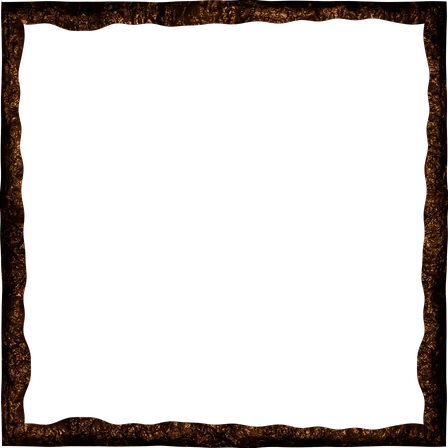
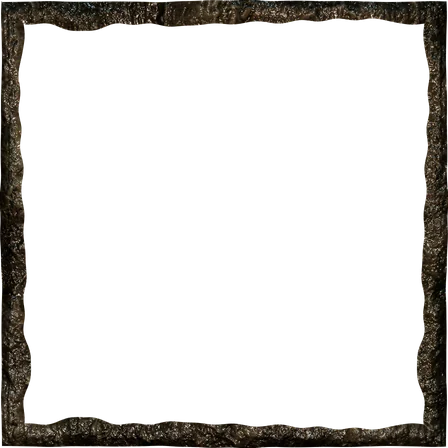
Cave frame: heavy corners in the side gutters, a short fringe, backdrop colours
The long stalactites and stalagmites now grow in the corners and run along
the sides over the border and padding, clear of the content; between them a
short tiled fringe ends before the content starts. Fixed-size pieces, so
nothing scales with the sidebar's width. The rock is sepia-grey to match the
cave backdrop, with cool wet highlights from above and soft firelight.

Changed region(s): [[0.0, 0.0, 1.0, 1.0]]

diff --git a/scripts/edge-studio/themes/werewolf-light.js b/scripts/edge-studio/themes/werewolf-light.js
@@ -1,20 +1,33 @@
 /*
   Werewolf, The cave: a wet rock rim, stalactites hanging from the top edge and
-  stalagmites rising from the bottom, at random lengths, reaching for one
-  another. Lit by firelight from inside the cave.
-  Material: ambientCG Rock020 (CC0), its vertical streaks read as flowstone.
+  stalagmites rising from the bottom, reaching for one another. The long, heavy
+  ones grow in the corners, down and up the sides (over the border and the
+  sidebar's padding, clear of the content); between them only a short fringe,
+  which ends before the content starts.
+  Colours follow the cave's backdrop: sepia-grey stone under a little
+  firelight, with cool, wet highlights from the waterfall above.
+  Material: ambientCG Rock020 (CC0); its vertical streaks read as flowstone.
 */
 import * as THREE from 'three';
 import { pbr, random, rim, lights, spike, noise3, RIM_WIDTH } from '../studio.js';
 
 const ROCK = 'Rock020';
-const rock = () => pbr(ROCK, { tint: '#a39486', roughness: 0.65 });
-const LIT = { colour: '#ffae6e', intensity: 520, fill: ['#3a4756', '#1a0f08'], fillIntensity: 1.3, front: 1.1 };
+const rock = () => pbr(ROCK, { tint: '#b0a698', roughness: 0.42, normalScale: 1.6 });
+const LIT = {
+  colour: '#f0d8c0',
+  intensity: 620,
+  fill: ['#3d4a55', '#16100b'],
+  fillIntensity: 2,
+  front: 1.9,
+  top: { colour: '#a9cfdc', intensity: 1.8 },
+};
 
-// The ornament strips: wide enough for the widest sidebar, scaled to fit.
-const WIDTH = 400;
+// Where the content starts, from the frame's outer edge: the border plus the sidebar's padding.
+const GUTTER = 32;
+// The middle fringe hangs from the rim's middle and ends just short of the content.
+const FRINGE = GUTTER - RIM_WIDTH * 0.5 - 3;
 
-// A lumpy mound of rock where formations meet the rim, so they grow out of it.
+// A lumpy mound of rock, so formations grow out of the rim.
 function mound(material, x, y, w, h, seed, down) {
   const n = noise3(seed);
   const g = new THREE.SphereGeometry(1, 32, 16);
@@ -30,56 +43,78 @@ function mound(material, x, y, w, h, seed, down) {
   return m;
 }
 
-// Formations along an edge. `down` hangs them from the top; otherwise they rise from the bottom.
-async function formations(scene, { height, seed, down, count, long, short }) {
-  const material = await rock();
-  const rnd = random(seed);
-  // The rim's middle: formations start inside it.
-  const edge = down ? height - RIM_WIDTH * 0.5 : RIM_WIDTH * 0.5;
-  // A ridge of mounds along the whole edge.
-  for (let x = -6; x < WIDTH + 12; x += 9 + rnd() * 10) scene.add(mound(material, x, edge, 9 + rnd() * 9, 3 + rnd() * 3, seed * 7 + x, down));
-
-  // Clusters: a long one with shorter ones around it.
-  const xs = Array.from({ length: count }, () => 6 + rnd() * (WIDTH - 12)).sort((a, b) => a - b);
-  xs.forEach((x, i) => {
-    const big = rnd() < long.chance;
-    const length = big ? long.min + rnd() * (long.max - long.min) : short.min + rnd() * (short.max - short.min);
-    const radius = big ? 8.5 + rnd() * 4.5 : 4 + rnd() * 3.5;
-    const geometry = spike({ length, radius, seed: seed * 100 + i, power: down ? 1.35 : 0.95, bend: (rnd() - 0.5) * 0.5, lump: 0.22 });
-    const mesh = new THREE.Mesh(geometry, material([radius * 2 * Math.PI, length]));
-    mesh.position.set(x, edge, -2);
-    if (down) mesh.rotation.z = Math.PI;
-    mesh.rotation.y = rnd() * Math.PI * 2;
-    scene.add(mesh);
-    if (big) scene.add(mound(material, x, edge, radius * 1.6, 4, seed * 31 + i, down));
-  });
+function formation(material, { x, edge, length, radius, seed, down, rnd }) {
+  const geometry = spike({ length, radius, seed, power: down ? 1.3 : 0.9, bend: (rnd() - 0.5) * 0.35, lump: 0.2 });
+  const mesh = new THREE.Mesh(geometry, material([radius * 2 * Math.PI, length]));
+  mesh.position.set(x, edge, -2);
+  if (down) mesh.rotation.z = Math.PI;
+  mesh.rotation.y = rnd() * Math.PI * 2;
+  return mesh;
 }
+
+/*
+  A corner: a heavy mass of rock and the long formations, running along the
+  side. `right` mirrors it. Light comes from the panel's middle (inwards).
+*/
+function corner({ down, right, width, height, seed, long }) {
+  return async (scene) => {
+    const material = await rock();
+    const rnd = random(seed);
+    const at = (x) => (right ? width - x : x);
+    const edge = down ? height - RIM_WIDTH * 0.5 : RIM_WIDTH * 0.5;
+    // The mass in the corner, tapering inwards into the fringe's ridge.
+    for (let x = 0; x < width; x += 6 + rnd() * 6) {
+      const heavy = Math.max(0, 1 - x / width);
+      scene.add(mound(material, at(x), edge, 8 + heavy * 10 + rnd() * 4, 3 + heavy * 6 + rnd() * 2, seed * 13 + x, down));
+    }
+    // The long ones, in the gutter beside the content.
+    long.forEach(([x, length, radius], i) => scene.add(formation(material, { x: at(x), edge, length, radius, seed: seed * 100 + i, down, rnd })));
+    // Short ones between, no longer than the fringe.
+    for (let x = GUTTER; x < width - 4; x += 5 + rnd() * 7)
+      scene.add(formation(material, { x: at(x), edge, length: 4 + rnd() * (FRINGE - 4), radius: 3.2 + rnd() * 3, seed: seed * 300 + x, down, rnd }));
+    const inwards = right ? -150 : width + 150;
+    lights(scene, { ...LIT, centre: [inwards, down ? height - 420 : 420, 160], intensity: LIT.intensity * 5 });
+  };
+}
+
+/*
+  The fringe along the middle: short formations on a ridge of rock, tiling
+  seamlessly (anything near one end is repeated past the other).
+*/
+function fringe({ down, width, height, seed }) {
+  return async (scene) => {
+    const material = await rock();
+    const rnd = random(seed);
+    const edge = down ? height - RIM_WIDTH * 0.5 : RIM_WIDTH * 0.5;
+    const thrice = (x, make) => [x - width, x, x + width].forEach((at) => scene.add(make(at)));
+    for (let x = 0; x < width; x += 9 + rnd() * 8) {
+      const w = 8 + rnd() * 8, h = 3 + rnd() * 3, s = seed * 7 + x;
+      thrice(x, (at) => mound(material, at, edge, w, h, s, down));
+    }
+    for (let x = 3; x < width; x += 6 + rnd() * 12) {
+      const length = 4 + rnd() * (FRINGE - 4), radius = 3.4 + rnd() * 3.4, s = seed * 100 + x, spin = rnd();
+      thrice(x, (at) => formation(material, { x: at, edge, length, radius, seed: s, down, rnd: () => spin }));
+    }
+    lights(scene, { ...LIT, centre: [width / 2, down ? height - 420 : 420, 160], intensity: LIT.intensity * 5 });
+  };
+}
+
+const TOP = { width: 72, height: 176 };
+const BOTTOM = { width: 72, height: 128 };
+// [distance from the outer edge, length, radius] for the long ones.
+const LONG_TOP = [[16, 150, 9], [9, 100, 7], [24, 72, 6.5], [17, 44, 7.5]];
+const LONG_BOTTOM = [[16, 104, 10], [8, 64, 7.5], [24, 48, 7]];
 
 const cave = {
   material: ROCK,
   pieces: {
-    rim: {
-      width: 224,
-      height: 224,
-      build: async (scene) => rim(scene, { material: await rock(), seed: 7, lit: LIT }),
-    },
-    top: {
-      width: WIDTH,
-      height: 96,
-      build: async (scene) => {
-        await formations(scene, { height: 96, seed: 11, down: true, count: 30, long: { chance: 0.25, min: 34, max: 74 }, short: { min: 7, max: 22 } });
-        // The fire is in the middle of the panel, far below the top edge.
-        lights(scene, { ...LIT, centre: [WIDTH / 2, -240, 120], intensity: LIT.intensity * 3 });
-      },
-    },
-    bottom: {
-      width: WIDTH,
-      height: 64,
-      build: async (scene) => {
-        await formations(scene, { height: 64, seed: 23, down: false, count: 18, long: { chance: 0.3, min: 22, max: 44 }, short: { min: 6, max: 16 } });
-        lights(scene, { ...LIT, centre: [WIDTH / 2, 64 + 240, 120], intensity: LIT.intensity * 3 });
-      },
-    },
+    rim: { width: 224, height: 224, build: async (scene) => rim(scene, { material: await rock(), seed: 7, lit: LIT }) },
+    'top-left': { ...TOP, build: corner({ down: true, right: false, ...TOP, seed: 11, long: LONG_TOP }) },
+    'top-right': { ...TOP, build: corner({ down: true, right: true, ...TOP, seed: 12, long: LONG_TOP.map(([x, l, r], i) => [x + (i % 2 ? 2 : -1), l * (i ? 0.85 : 0.8), r]) }) },
+    top: { width: 192, height: 40, build: fringe({ down: true, width: 192, height: 40, seed: 13 }) },
+    'bottom-left': { ...BOTTOM, build: corner({ down: false, right: false, ...BOTTOM, seed: 21, long: LONG_BOTTOM }) },
+    'bottom-right': { ...BOTTOM, build: corner({ down: false, right: true, ...BOTTOM, seed: 22, long: LONG_BOTTOM.map(([x, l, r], i) => [x + (i % 2 ? -1 : 1), l * 0.9, r]) }) },
+    bottom: { width: 192, height: 36, build: fringe({ down: false, width: 192, height: 36, seed: 23 }) },
   },
 };
 

diff --git a/app/games.css b/app/games.css
@@ -135,17 +135,27 @@
 /*
   Rendered frames (scripts/edge-studio): one way of drawing for every theme
   that has one, so they feel like one family. The rim is a 9-slice image used
-  as the border; tall frames (the sidebars) also get ornament strips along
-  their top and bottom edges, behind the content. A theme joins by adding its
-  selectors to these rules and setting its images (--frame-rim, --frame-top,
-  --frame-bottom) below.
+  as the border; tall frames (the sidebars) also get ornaments along their
+  top and bottom edges, behind the content: a piece for each corner (the
+  heavy ones, kept to the side gutters) and a short fringe tiled between,
+  which ends before the content starts. A theme joins by adding its
+  selectors to these rules and setting its images and sizes (--frame-*).
 */
 :root[data-theme='light'] [data-game='werewolf'],
 [data-skin='werewolf-light'] {
   /* Werewolf, The cave: wet rock, stalactites and stalagmites, firelight. */
   --frame-rim: url('/frames/werewolf-light/rim.webp');
   --frame-top: url('/frames/werewolf-light/top.webp');
+  --frame-top-left: url('/frames/werewolf-light/top-left.webp');
+  --frame-top-right: url('/frames/werewolf-light/top-right.webp');
   --frame-bottom: url('/frames/werewolf-light/bottom.webp');
+  --frame-bottom-left: url('/frames/werewolf-light/bottom-left.webp');
+  --frame-bottom-right: url('/frames/werewolf-light/bottom-right.webp');
+  /* Piece sizes (CSS px): the corners, then the fringe's tile. */
+  --frame-top-corner: 72px 176px;
+  --frame-bottom-corner: 72px 128px;
+  --frame-top-tile: 192px 40px;
+  --frame-bottom-tile: 192px 36px;
 }
 :root[data-theme='light'] [data-game='werewolf'] .frame,
 [data-skin='werewolf-light'] .skin-frame {
@@ -162,8 +172,12 @@
   z-index: -1;
   pointer-events: none;
   background:
-    var(--frame-top) top center / 100% auto no-repeat,
-    var(--frame-bottom) bottom center / 100% auto no-repeat;
+    var(--frame-top-left) top left / var(--frame-top-corner) no-repeat,
+    var(--frame-top-right) top right / var(--frame-top-corner) no-repeat,
+    var(--frame-bottom-left) bottom left / var(--frame-bottom-corner) no-repeat,
+    var(--frame-bottom-right) bottom right / var(--frame-bottom-corner) no-repeat,
+    var(--frame-top) top left / var(--frame-top-tile) repeat-x,
+    var(--frame-bottom) bottom left / var(--frame-bottom-tile) repeat-x;
 }
 
 /* Hunter, The cabin: weathered timber with nail heads. */

diff --git a/scripts/edge-studio/studio.js b/scripts/edge-studio/studio.js
@@ -100,15 +100,21 @@ export async function pbr(id, { tile = 192, origin = [0, 0], stretch = [1, 1], t
 
 /*
   The light rig, the same for every theme: the source sits at `centre` (the
-  panel's middle, in front of it) in the theme's colour, plus a dim fill.
+  panel's middle, in front of it) in the theme's colour, plus a dim fill and,
+  optionally, a light from above (`top`, e.g. daylight or a waterfall's glow).
 */
-export function lights(scene, { centre, colour, intensity, fill = ['#29323d', '#140c06'], fillIntensity = 0.5, front = 0.35 }) {
+export function lights(scene, { centre, colour, intensity, fill = ['#29323d', '#140c06'], fillIntensity = 0.5, front = 0.35, top }) {
   const key = new THREE.PointLight(colour, intensity, 0, 1);
   key.position.set(...centre);
   // A soft light from the viewer's side, so slopes facing away aren't black.
   const soft = new THREE.DirectionalLight(colour, front);
   soft.position.set(0, 0, 1);
   scene.add(key, soft, new THREE.HemisphereLight(fill[0], fill[1], fillIntensity));
+  if (top) {
+    const above = new THREE.DirectionalLight(top.colour, top.intensity);
+    above.position.set(0.2, 1, 0.7);
+    scene.add(above);
+  }
 }
 
 /*

diff --git a/CLAUDE.md b/CLAUDE.md
@@ -167,7 +167,7 @@ Elysium is a cross-game vault for Vampire: The Masquerade, Werewolf: The Apocaly
 | `/dashboard/*` | Redirects to `/vault/vampire/*` (next.config.mjs) |
 
 - **Themes = game × mode.** `app/vault/[game]/layout.tsx` sets `data-game` on a wrapper; the mode is `<html data-theme>` (toggle). `app/games.css` holds per-game tokens, fonts (Werewolf: Cinzel; Hunter: Special Elite + Courier Prime), the six `.frame` borders (gothic, neon, leaves, stone, timber, paper & tape) and ambient keyframes. Vampire uses the root tokens. Hunter's light mode ("the inn") is a true light theme and is being replaced by a city concept (roadmap); the others stay dark.
-- **Rendered frames (edge studio, in progress):** `scripts/edge-studio/` renders theme frames once with three.js in headless Chrome (`node scripts/edge-studio/render.mts <skin>`; needs Google Chrome) from CC0 ambientCG materials (downloaded into the git-ignored `.cache/`) into `public/frames/<skin>/` (`rim.webp`, a 9-slice border, plus `top.webp`/`bottom.webp` ornament strips). Every theme shares one scene (`studio.js`: the same rim profile and width, the light at the panel's middle) and supplies its material, light colour and ornaments (`themes/<skin>.js`). In `app/games.css` one block of rules draws them (`--frame-rim`, `--frame-top`, `--frame-bottom`); ornament strips only on tall frames (`.frame-tall`, the chronicle's `.skin-frame`). So far: the cave (`werewolf-light`).
+- **Rendered frames (edge studio, in progress):** `scripts/edge-studio/` renders theme frames once with three.js in headless Chrome (`node scripts/edge-studio/render.mts <skin>`; needs Google Chrome) from CC0 ambientCG materials (downloaded into the git-ignored `.cache/`) into `public/frames/<skin>/` (`rim.webp`, a 9-slice border; corner pieces `top-left`/`top-right`/`bottom-left`/`bottom-right` whose long ornaments keep to the 32px side gutter (border + padding); `top`/`bottom`, a short tiled fringe that ends before the content). Every theme shares one scene (`studio.js`: the same rim profile and width, the light at the panel's middle) and supplies its material, light colour and ornaments (`themes/<skin>.js`). In `app/games.css` one block of rules draws them (`--frame-rim`, `--frame-top`, `--frame-bottom`); ornament strips only on tall frames (`.frame-tall`, the chronicle's `.skin-frame`). So far: the cave (`werewolf-light`).
 - **Ambience:** `app/ui/game/Ambience.tsx`, one backdrop + looping element per game and mode.
 - **Navigation:** `app/ui/navbar.tsx` → `app/ui/SiteIsland.tsx` (site pages: links on the right, phone menu, section dots; no theme switch) and `app/ui/dashboard/sidenav.tsx` (dashboards: game switcher, nav items, Chronicles, Themes, Settings, Friends, Log out); the theme frame comes from `.frame`.
 - **Game config:** `app/lib/games.ts` (names, logos, nouns, mode names). Factions: `app/lib/factions.ts`. Sheets per game: `app/ui/sheets/game-sheets.tsx` (sections in `app/ui/sheets/sections/`).
